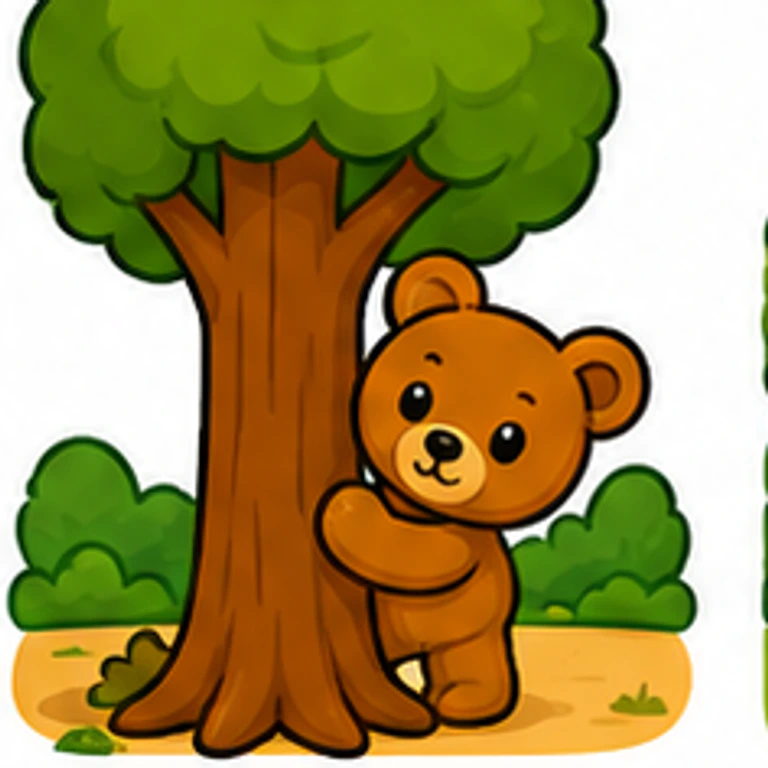
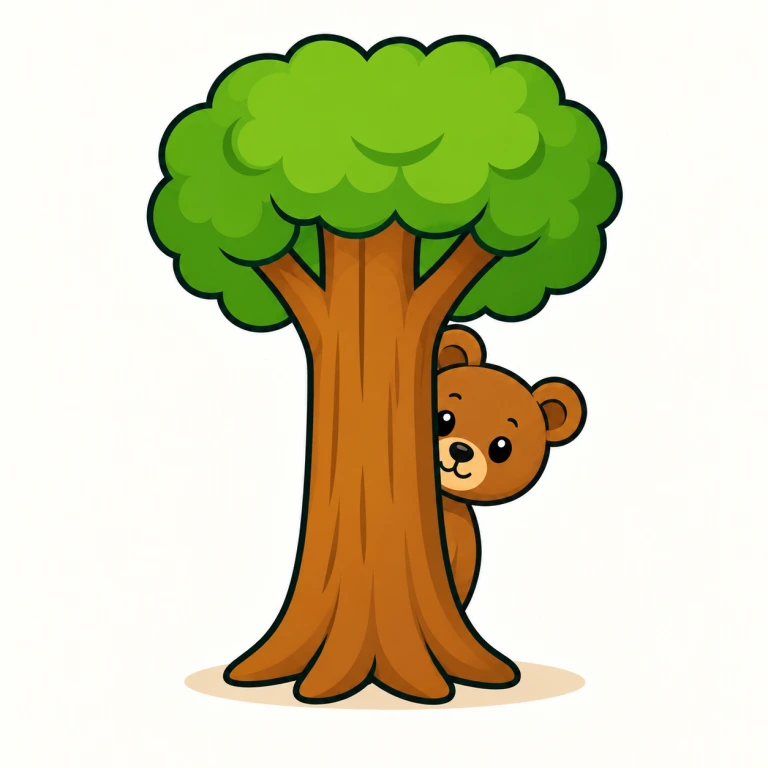
Repair four assessment illustrations and record exact visual evidence

diff --git a/src/content/assessments/v3/assessmentImageStyleDecisions.generated.js b/src/content/assessments/v3/assessmentImageStyleDecisions.generated.js
@@ -1,4 +1,4 @@
-// GENERATED by .artifacts/assessment-rebuild/media-completion/applyMediaCompletion.mjs
+// GENERATED; scoped repairs recorded by tools/assessmentRebuild/recordAssessmentImageRepairs.mjs
 export const ASSESSMENT_IMAGE_STYLE_DECISIONS = Object.freeze({
   "/images/assessment/blends/belt.webp": {
     "path": "/images/assessment/blends/belt.webp",
@@ -3068,9 +3068,9 @@ export const ASSESSMENT_IMAGE_STYLE_DECISIONS = Object.freeze({
   },
   "/images/assessment/generated/initial-sounds-l2/engine.webp": {
     "path": "/images/assessment/generated/initial-sounds-l2/engine.webp",
[2 lines of base64/hex data omitted]
     "visualReview": "approved",
-    "reviewedAt": "2026-08-14",
+    "reviewedAt": "2026-09-08",
     "brightness": "bright",
     "saturation": "bold",
     "medium": "classic-flat-2d-cartoon",
@@ -3083,9 +3083,10 @@ export const ASSESSMENT_IMAGE_STYLE_DECISIONS = Object.freeze({
     "faux3d": false,
     "photoreal": false,
     "painterly": false,
-    "sourceSheet": "batch5-05.png",
-    "sourceCell": 21,
-    "repairedFrom": null
+    "sourceSheet": null,
+    "sourceCell": null,
[1 lines of base64/hex data omitted]
+    "reviewNotes": "Directly inspected original, generated master, final WebP and actual question/choice cards. Accepted referent preserved, complete silhouette with padding, crisp contours and smooth cartoon surfaces, no text. High-resolution redraw replaces blurred original."
   },
   "/images/assessment/generated/initial-sounds-l2/feather.webp": {
     "path": "/images/assessment/generated/initial-sounds-l2/feather.webp",
@@ -7604,9 +7605,9 @@ export const ASSESSMENT_IMAGE_STYLE_DECISIONS = Object.freeze({
   },
   "/images/assessment/release-media/bear-behind-tree-b145e7e0.webp": {
     "path": "/images/assessment/release-media/bear-behind-tree-b145e7e0.webp",
[2 lines of base64/hex data omitted]
     "visualReview": "approved",
-    "reviewedAt": "2026-08-14",
+    "reviewedAt": "2026-09-08",
     "brightness": "bright",
     "saturation": "bold",
     "medium": "classic-flat-2d-cartoon",
@@ -7619,9 +7620,10 @@ export const ASSESSMENT_IMAGE_STYLE_DECISIONS = Object.freeze({
     "faux3d": false,
     "photoreal": false,
     "painterly": false,
-    "sourceSheet": "batch5-18.png",
-    "sourceCell": 24,
-    "repairedFrom": null
+    "sourceSheet": null,
+    "sourceCell": null,
[1 lines of base64/hex data omitted]
+    "reviewNotes": "Directly inspected original, generated master, final WebP and actual question card. Trunk occludes bear torso, limbs and left edge of face; no foreground paw. Clear behind and inverse in-front relation. Complete silhouette, crisp contours, smooth cartoon surfaces, no text."
   },
   "/images/assessment/release-media/bike-in-front-of-garage-603483c8.webp": {
     "path": "/images/assessment/release-media/bike-in-front-of-garage-603483c8.webp",
@@ -8213,9 +8215,9 @@ export const ASSESSMENT_IMAGE_STYLE_DECISIONS = Object.freeze({
   },
   "/images/assessment/release-media/igloo-d714f227.webp": {
     "path": "/images/assessment/release-media/igloo-d714f227.webp",
[2 lines of base64/hex data omitted]
     "visualReview": "approved",
-    "reviewedAt": "2026-08-14",
+    "reviewedAt": "2026-09-08",
     "brightness": "bright",
     "saturation": "bold",
     "medium": "classic-flat-2d-cartoon",
@@ -8228,9 +8230,10 @@ export const ASSESSMENT_IMAGE_STYLE_DECISIONS = Object.freeze({
     "faux3d": false,
     "photoreal": false,
     "painterly": false,
-    "sourceSheet": "batch5-17.png",
-    "sourceCell": 13,
-    "repairedFrom": null
+    "sourceSheet": null,
+    "sourceCell": null,
[1 lines of base64/hex data omitted]
+    "reviewNotes": "Directly inspected original, generated master, final WebP and actual question/choice cards. Accepted referent preserved, complete silhouette with padding, crisp contours and smooth cartoon surfaces, no text. High-resolution redraw replaces blurred original."
   },
   "/images/assessment/release-media/ink-1dc530ca.webp": {
     "path": "/images/assessment/release-media/ink-1dc530ca.webp",
@@ -8864,9 +8867,9 @@ export const ASSESSMENT_IMAGE_STYLE_DECISIONS = Object.freeze({
   },
   "/images/assessment/release-media/umbrella-e1f6f2a3.webp": {
     "path": "/images/assessment/release-media/umbrella-e1f6f2a3.webp",
[2 lines of base64/hex data omitted]
     "visualReview": "approved",
-    "reviewedAt": "2026-08-14",
+    "reviewedAt": "2026-09-08",
     "brightness": "bright",
     "saturation": "bold",
     "medium": "classic-flat-2d-cartoon",
@@ -8879,9 +8882,10 @@ export const ASSESSMENT_IMAGE_STYLE_DECISIONS = Object.freeze({
     "faux3d": false,
     "photoreal": false,
     "painterly": false,
-    "sourceSheet": "batch5-17.png",
-    "sourceCell": 25,
-    "repairedFrom": null
+    "sourceSheet": null,
+    "sourceCell": null,
[1 lines of base64/hex data omitted]
+    "reviewNotes": "Directly inspected original, generated master, final WebP and actual question/choice cards. Accepted referent preserved, complete silhouette with padding, crisp contours and smooth cartoon surfaces, no text. High-resolution redraw replaces blurred original."
   },
   "/images/assessment/release-media/uncle-a74a5bca.webp": {
     "path": "/images/assessment/release-media/uncle-a74a5bca.webp",

diff --git a/src/content/appVisualAssetReviews.generated.js b/src/content/appVisualAssetReviews.generated.js
@@ -12182,8 +12182,9 @@ export const appVisualAssetReview = {
     },
     {
       "path": "/images/assessment/generated/initial-sounds-l2/engine.webp",
[1 lines of base64/hex data omitted]
-      "status": "approved"
[1 lines of base64/hex data omitted]
+      "status": "approved",
+      "reviewedAt": "2026-09-08"
     },
     {
       "path": "/images/assessment/generated/initial-sounds-l2/feather.webp",
@@ -16187,8 +16188,9 @@ export const appVisualAssetReview = {
     },
     {
       "path": "/images/assessment/release-media/bear-behind-tree-b145e7e0.webp",
[1 lines of base64/hex data omitted]
-      "status": "approved"
[1 lines of base64/hex data omitted]
+      "status": "approved",
+      "reviewedAt": "2026-09-08"
     },
     {
       "path": "/images/assessment/release-media/bike-in-front-of-garage-603483c8.webp",
@@ -16332,8 +16334,9 @@ export const appVisualAssetReview = {
     },
     {
       "path": "/images/assessment/release-media/igloo-d714f227.webp",
[1 lines of base64/hex data omitted]
-      "status": "approved"
[1 lines of base64/hex data omitted]
+      "status": "approved",
+      "reviewedAt": "2026-09-08"
     },
     {
       "path": "/images/assessment/release-media/ink-1dc530ca.webp",
@@ -16487,8 +16490,9 @@ export const appVisualAssetReview = {
     },
     {
       "path": "/images/assessment/release-media/umbrella-e1f6f2a3.webp",
[1 lines of base64/hex data omitted]
-      "status": "approved"
[1 lines of base64/hex data omitted]
+      "status": "approved",
+      "reviewedAt": "2026-09-08"
     },
     {
       "path": "/images/assessment/release-media/uncle-a74a5bca.webp",
